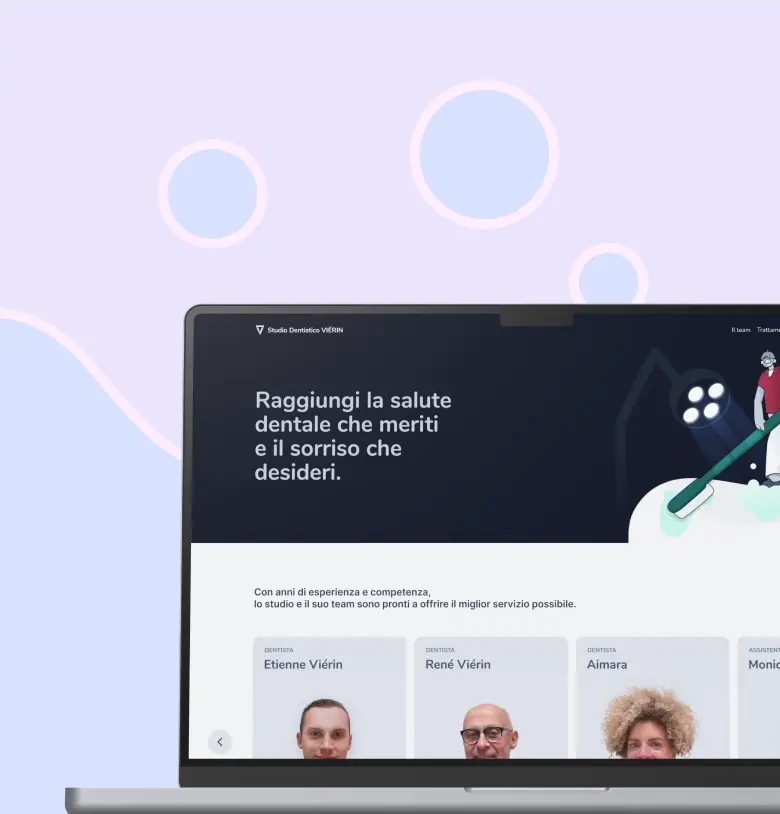
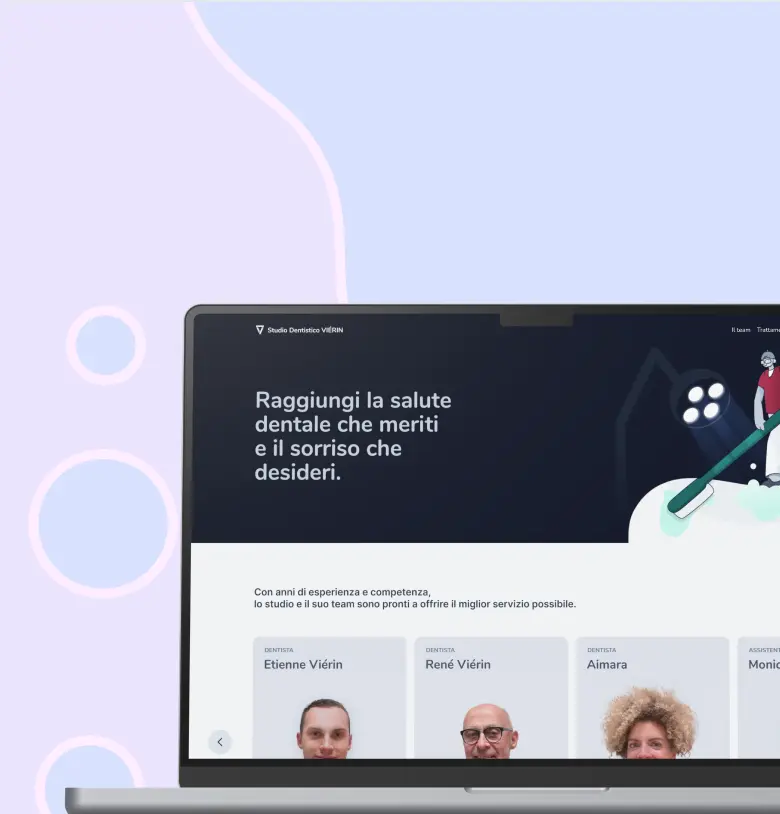
Added Nunito Sans font, Progress on Vierin project page

diff --git a/src/routes/dentist-vierin/+page.svelte b/src/routes/dentist-vierin/+page.svelte
@@ -18,7 +18,7 @@
 <div id="hero-section" class="my-14 bg-muted dark:bg-muted/50 overflow-hidden">
   <Separator />
   <div class="relative overflow-hidden max-md:pb-6">
-    <div class="hidden md:block absolute w-1/2 left-0 inset-y-0 bg-[#CFFDFF] z-0"></div>
+    <div class="hidden md:block absolute w-1/2 left-0 inset-y-0 bg-[#E9E5FC] z-0"></div>
     <div class="lg:max-w-[120rem] mx-auto">
       <div class="grid grid-cols-1 grid-rows-[1fr_auto] md:grid-cols-2 md:grid-rows-1 md:h-[475px] lg:h-[500px] xl:h-[600px]">
         <div class="relative">
@@ -65,7 +65,7 @@
 <!-- The Challenge -->
 <Container class="my-20 lg:my-24">
   <H2 id="the-challenge">The Challenge</H2>
-  <p class="text-muted-foreground text-lg mb-6 md:text-xl md:mb-8">
+  <p class="text-muted-foreground text-lg md:text-xl">
     Vierin Dental Office was looking for a mobile first and easy to read website to reach more clients.
     A single page with a simple user experience, understandable to all age groups using the website for
     the first time.
@@ -76,22 +76,22 @@
   mobileOnly={true}
   ratio={2 / 3}
   photos={[
-    "/img/winery-dibarro/phone-mask-left.png",
-    "/img/winery-dibarro/phone-mask-center.png",
-    "/img/winery-dibarro/phone-mask-right.png"
+    "/img/dentist-vierin/phone-mask-left.png",
+    "/img/dentist-vierin/phone-mask-center.png",
+    "/img/dentist-vierin/phone-mask-right.png"
   ]}
 />
 
 <Container class="hidden md:block">
   <div class="max-md:-mx-6 md:grid md:grid-cols-3 md:gap-x-6 my-6">
     <FocusCornersWrapper>
-      <img class="h-[500px] md:h-auto mx-auto pointer-events-none" src="/img/winery-dibarro/phone-mask-left.png" alt="">
+      <img class="h-[500px] md:h-auto mx-auto pointer-events-none" src="/img/dentist-vierin/phone-mask-left.png" alt="">
     </FocusCornersWrapper>
     <FocusCornersWrapper class="hidden md:block">
-      <img class="h-[500px] md:h-auto mx-auto pointer-events-none" src="/img/winery-dibarro/phone-mask-center.png" alt="">
+      <img class="h-[500px] md:h-auto mx-auto pointer-events-none" src="/img/dentist-vierin/phone-mask-center.png" alt="">
     </FocusCornersWrapper>
     <FocusCornersWrapper class="hidden md:block">
-      <img class="h-[500px] md:h-auto mx-auto pointer-events-none" src="/img/winery-dibarro/phone-mask-right.png" alt="">
+      <img class="h-[500px] md:h-auto mx-auto pointer-events-none" src="/img/dentist-vierin/phone-mask-right.png" alt="">
     </FocusCornersWrapper>
   </div>
 </Container>
@@ -149,9 +149,9 @@
       class="h-[460px] w-full hide-scrollbar md:hidden"
       animation="img-hover-scroll"
     >
-      <div class="background-img horizontal-scrolling">
+      <div class="background-img horizontal-scrolling" style="--scrollable-img-url-mobile: url(/img/dentist-vierin/team-siluette-scroll-mobile.webp);">
     </FocusCornersWrapper>
-    <Caption text="tap to scroll" class="text-skill-purple-foreground" />
+    <Caption text="tap to scroll" class="text-skill-purple-foreground md:hidden" />
     <!-- Desktop Only -->
     <div class="hidden md:block md:rounded-md md:space-y-14 md:overflow-hidden">
       <FocusCornersWrapper>
@@ -159,11 +159,133 @@
       </FocusCornersWrapper>
     </div>
   </div>
+  <p class="text-muted-foreground text-lg mb-20 md:mb-24 md:text-xl">
+    A grid of cards presents all the services, each card contains a comprehensive description along with a customised animated icon.
+    Throughout the design process, I encountered some challenges in striking the right personality choice balanced between
+    professionalism and fun.
+  </p>
 </Container>
 
-<style>
-  .background-img {
-    --scrollable-img-url-mobile: url(/img/dentist-vierin/team-siluette-scroll-mobile.webp);
-  }
-</style>
+<Separator />
+<FocusCornersWrapper
+  class="h-[460px] md:h-[40vh] lg:h-[min(65vh,_600px)] bg-slate-950"
+  animation="img-hover-scroll"
+>
+  <div
+    class="background-img vertical-scrolling"
+    style="
+      --scrollable-img-url: url(/img/dentist-vierin/scrollable.webp);
+      --scrollable-img-url-mobile: url(/img/dentist-vierin/scrollable-mobile.webp);
+    "
+  >
+</FocusCornersWrapper>
+<Separator />
+<Caption text="tap to scroll" class="text-skill-purple-foreground md:hidden" />
+
+<Container class="my-20 lg:my-24">
+  <p class="text-muted-foreground text-lg md:text-xl">
+    By incorporating a rounded sans-serif font, a color scheme consisting of blue-gray with hints of light teal, and employing a small
+    border radius, I was able to achieve a design that closely aligned with my vision.
+  </p>
+</Container>
+
+<Carousel
+  mobileOnly={true}
+  ratio={390 / 440}
+  photos={[
+    "/img/dentist-vierin/font-palette-mobile-1.webp",
+    "/img/dentist-vierin/font-palette-mobile-2.webp",
+    "/img/dentist-vierin/font-palette-mobile-3.webp",
+    "/img/dentist-vierin/font-palette-mobile-4.webp",
+    "/img/dentist-vierin/font-palette-mobile-5.webp",
+    "/img/dentist-vierin/font-palette-mobile-6.webp"
+  ]}
+/>
+
+<Container class="hidden md:block">
+  <div class="md:space-y-24">
+    <FocusCornersWrapper class="md:rounded-md">
+      <img class="h-full w-full pointer-events-none" src="/img/dentist-vierin/nunito-palette.webp" alt="">
+    </FocusCornersWrapper>
+    <FocusCornersWrapper class="md:rounded-md">
+      <img class="h-full w-full pointer-events-none" src="/img/dentist-vierin/nunito-sans-palette.webp" alt="">
+    </FocusCornersWrapper>
+  </div>
+</Container>
+
+<Container class="mt-20 lg:mt-24">
+  <p class="text-muted-foreground text-lg mb-2 md:text-xl md:max-w-5xl md:mb-4">
+    Additionally, the utilization of flat illustrations and icons significantly contributed to the overall aesthetic.
+  </p>
+  <p class="text-muted-foreground text-lg mb-20 md:text-xl md:mb-24">
+    Simplifying the services into icons posed a hitch. However, I successfully tackled it by looping simple movements to reveal
+    specific situations.
+  </p>
+  <!-- Mobile -->
+  <div class="-mx-6 mb-20 md:hidden">
+    <FocusCornersWrapper>
+      <AspectRatio ratio={390 / 440}>
+        <div class="flex justify-center items-center bg-[#E9E3FB] h-full w-full">
+          <div class="grid grid-cols-2 gap-4">
+            <div class="h-20 w-20 rounded-sm bg-slate-500"></div>
+            <div class="h-20 w-20 rounded-sm bg-slate-500"></div>
+            <div class="h-20 w-20 rounded-sm bg-slate-500"></div>
+            <div class="h-20 w-20 rounded-sm bg-slate-500"></div>
+            <div class="h-20 w-20 rounded-sm bg-slate-500"></div>
+            <div class="h-20 w-20 rounded-sm bg-slate-500"></div>
+          </div>
+        </div>
+      </AspectRatio>
+    </FocusCornersWrapper>
+  </div>
+  <!-- Desktop -->
+  <div class="hidden md:block md:mb-24">
+    <FocusCornersWrapper>
+      <AspectRatio ratio={2376 / 972}>
+        <div class="grid grid-cols-2 bg-[#E9E3FB] h-full w-full md:rounded-md">
+          <div class="grid grid-cols-3 gap-4 m-auto">
+            <div class="h-20 w-20 rounded-sm bg-slate-500"></div>
+            <div class="h-20 w-20 rounded-sm bg-slate-500"></div>
+            <div class="h-20 w-20 rounded-sm bg-slate-500"></div>
+            <div class="h-20 w-20 rounded-sm bg-slate-500"></div>
+            <div class="h-20 w-20 rounded-sm bg-slate-500"></div>
+            <div class="h-20 w-20 rounded-sm bg-slate-500"></div>
+          </div>
+          <div class="flex justify-center items-center">
+            <h3 class="font-nunito-sans font-bold text-3xl">
+              Each icon was <br>
+              animated in After <br>
+              Effects and exported <br>
+              with Bodymovin
+            </h3>
+          </div>
+        </div>
+      </AspectRatio>
+    </FocusCornersWrapper>
+  </div>
+  <p class="text-muted-foreground text-lg mb-20 md:text-xl md:max-w-5xl md:mb-24">
+    To facilitate user interactions, quick action links such as contact or locate the Dental Office are conveniently placed
+    on the top navigation bar. For the mobile version, a floating button is consistently visible in the lower right corner
+    of the screen. This button serves as a direct call trigger to the Dental Office, proving particularly useful in
+    emergency situations.
+  </p>
+</Container>
+
+<Carousel
+  mobileOnly={true}
+  ratio={390 / 440}
+  photos={[
+    "/img/dentist-vierin/floating-button-1.webp",
+    "/img/dentist-vierin/floating-button-2.webp",
+    "/img/dentist-vierin/floating-button-3.webp"
+  ]}
+/>
+
+<Container class="mb-20 md:mb-24">
+  <FocusCornersWrapper class="hidden md:block md:rounded-md">
+    <img class="h-full w-full pointer-events-none" src="/img/dentist-vierin/floating-button.webp" alt="">
+  </FocusCornersWrapper>
+</Container>
+
+
 

diff --git a/src/routes/winery-dibarro/+page.svelte b/src/routes/winery-dibarro/+page.svelte
@@ -7,13 +7,14 @@
 	import { SkillIconWrapper } from "$components/ui/skill";
 	import Carousel from "$components/ui/carousel/Carousel.svelte";
 	import AspectRatio from "$components/ui/aspect-ratio/AspectRatio.svelte";
+	import Caption from "$components/site/Caption.svelte";
 </script>
 
 <!-- Hero Section -->
 <div id="hero-section" class="my-14 bg-muted dark:bg-muted/50 overflow-hidden">
   <Separator />
   <div class="relative overflow-hidden max-md:pb-6">
-    <div class="hidden md:block absolute w-1/2 left-0 inset-y-0 bg-[#CFFDFF] z-0"></div>
+    <div class="hidden md:block absolute w-1/2 left-0 inset-y-0 bg-[#D3F7FB] z-0"></div>
     <div class="lg:max-w-[120rem] mx-auto">
       <div class="grid grid-cols-1 grid-rows-[1fr_auto] md:grid-cols-2 md:grid-rows-1 md:h-[475px] lg:h-[500px] xl:h-[600px]">
         <div class="relative">
@@ -53,7 +54,7 @@
 <!-- The Challenge -->
 <Container class="my-20 lg:my-24">
   <H2 id="the-challenge">The Challenge</H2>
-  <p class="text-muted-foreground text-lg mb-6 md:text-xl md:mb-8">
+  <p class="text-muted-foreground text-lg md:text-xl">
     Di barrò Winery wanted an appealing storytelling website to introduce their family business and their
     products reaching more clients, balancing narrative and photos in a dark themed experience.
   </p>
@@ -93,15 +94,22 @@
 </Container>
 
 <FocusCornersWrapper
-  class="h-[400px] md:h-[40vh] lg:h-[min(65vh,_600px)] bg-slate-950"
+  class="h-[460px] md:h-[40vh] lg:h-[min(65vh,_600px)] bg-slate-950"
   animation="img-hover-scroll"
   twBottomLeftCornerColor="text-slate-200"
   twBottomRightCornerColor="text-slate-200"
   twTopLeftCornerColor="text-slate-200"
   twTopRightCornerColor="text-slate-200"
 >
-  <div class="background-img vertical-scrolling">
+  <div
+    class="background-img vertical-scrolling"
+    style="
+      --scrollable-img-url: url(/img/winery-dibarro/scrollable.webp);
+      --scrollable-img-url-mobile: url(/img/winery-dibarro/scrollable-mobile.webp);
+    "
+  >
 </FocusCornersWrapper>
+<Caption text="tap to scroll" class="text-skill-green-foreground md:hidden" />
 
 <Container class="my-20 lg:my-24">
   <p class="text-muted-foreground text-lg mb-2 md:text-xl md:mb-4">
@@ -147,7 +155,7 @@
 
   <div class="max-md:-mx-6">
     <div class="md:hidden">
-      <AspectRatio ratio={0.89}>
+      <AspectRatio ratio={390 / 440}>
         <img class="h-full w-full pointer-events-none" src="/img/winery-dibarro/winery-pattern-mobile.webp" alt="">
       </AspectRatio>
     </div>
@@ -159,9 +167,4 @@
   </div>
 </Container>
 
-<style>
-  .background-img {
-    --scrollable-img-url: url(/img/winery-dibarro/scrollable.webp);
-    --scrollable-img-url-mobile: url(/img/winery-dibarro/scrollable-mobile.webp);
-  }
-</style>
+

diff --git a/src/lib/components/site/Caption.svelte b/src/lib/components/site/Caption.svelte
@@ -1,4 +1,5 @@
 <script lang="ts">
+	import { cn } from "$lib/utils";
 	import { Icons } from "./icons";
 
   let className: string | undefined | null = undefined;
@@ -6,7 +7,7 @@
   export let text: string;
 </script>
 
-<div class="mt-3 flex w-full justify-center text-sm" {...$$restProps}>
+<div class={cn("mt-3 flex w-full justify-center text-base", className)} {...$$restProps}>
   {text}
-  <Icons.handTap class="h-4 w-4 ml-2" />
+  <Icons.handTap class="h-5 w-5 ml-2" />
 </div>

diff --git a/src/app.html b/src/app.html
@@ -9,6 +9,7 @@
 		<link rel="preconnect" href="https://fonts.googleapis.com">
 		<link rel="preconnect" href="https://fonts.gstatic.com" crossorigin>
 		<link href="https://fonts.googleapis.com/css2?family=Inter:wght@100;200;300;400;500;600;700;800;900&display=swap" rel="stylesheet">
+		<link href="https://fonts.googleapis.com/css2?family=Nunito+Sans:wght@700&display=swap" rel="stylesheet">
 
 		%sveltekit.head%
 	</head>
